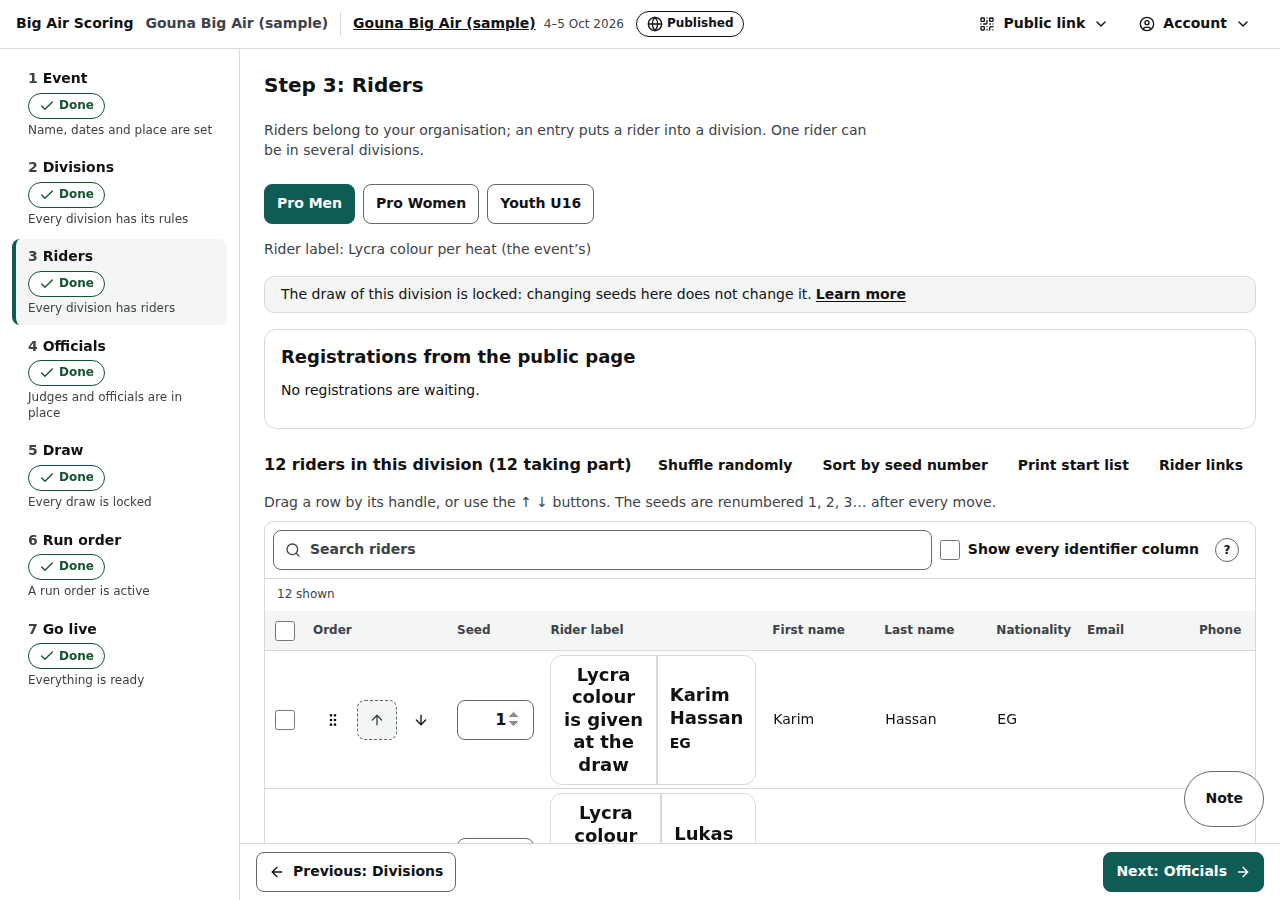
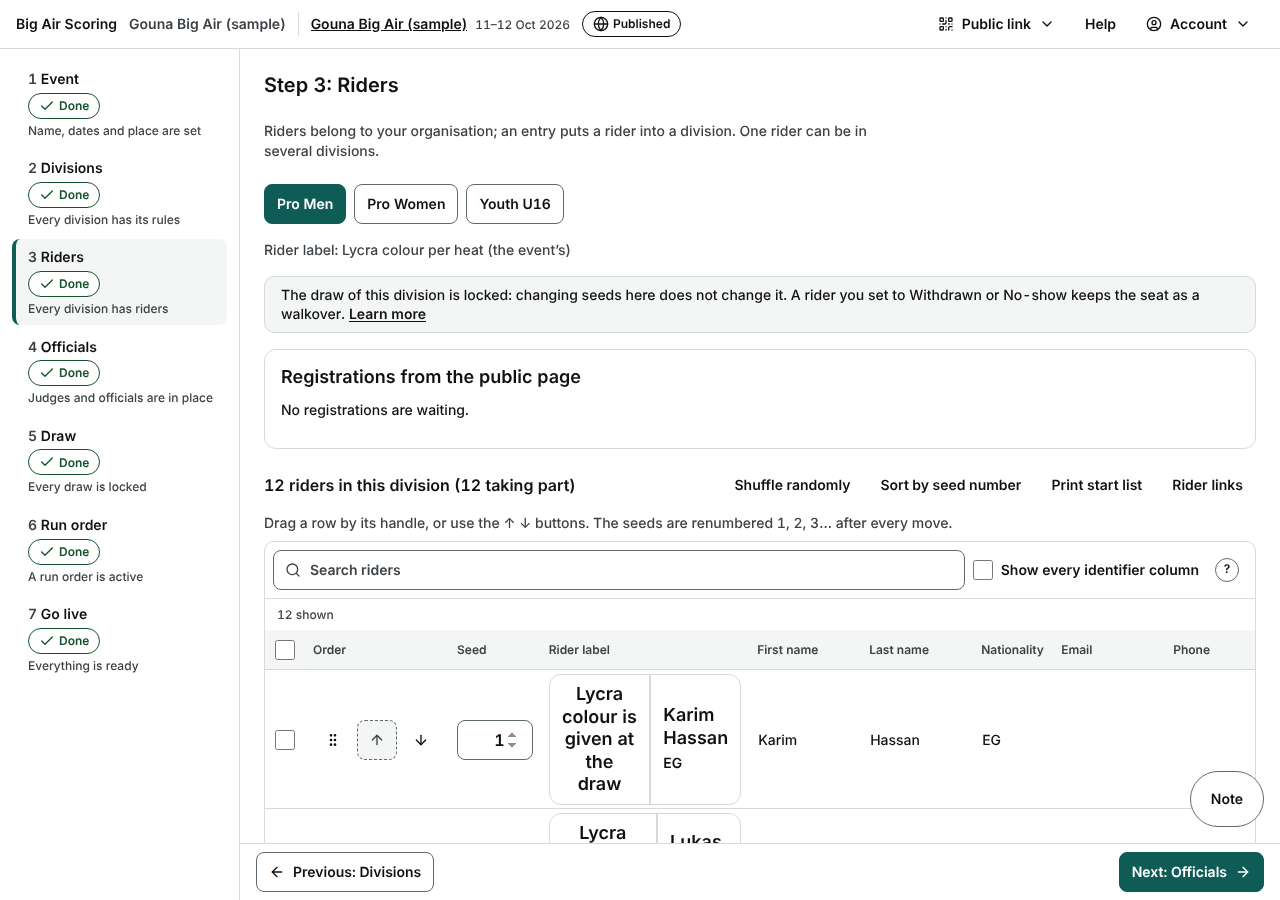
docs(manual): retaken pictures for the pages this PR changed, rider menu and Walkover pictures
Claude-Session: https://claude.ai/code/session_01Y7v8Lmk9V6uqmbBYhYnfgF

diff --git a/docs/manual/screens/console-laptop.md b/docs/manual/screens/console-laptop.md
@@ -69,6 +69,12 @@ Works on the laptop console (and for an organiser). The phone's Control tab does
 7. **Taking it back.** **Re-open** on a walkover heat puts it back to Not started with its riders (riders set to Did not start stay as they were; **Back in the heat** is on their menu). It is refused once a heat it fed has started: “A later heat that depends on this result has already started (‹heat›). Reset that heat first, then this one.”
 8. **Who may do it:** the head judge's seat and an organiser. Judges, spotters, the announcer, observers and other organisations are refused. Every press is in the audit log in words, for example “Head judge gave a walkover in R3 · H11: Adam Arrow goes through; Mariam Graff did not start (injured)”.
 
+![The rider menu on a rider's card](../img/console-rider-menu-1280.png)
+*console-rider-menu-1280.png — ··· on Yellow's card in a heat that has not started: Did not start (this heat only), Out of the event (injured or withdrew).*
+
+![The Walkover button after Did not start](../img/console-walkover-1280.png)
+*console-walkover-1280.png — Yellow did not start: one rider can ride, so the big button reads “Walkover — Red goes through”. Yellow's card says Did not start, never 0.0.*
+
 Two small guards on a heat nobody has ridden: the **Ties** box stays empty (two riders with no score are not “tied — choose the order”), and **Publish** asks once: “Nobody has ridden this heat. To send a rider through without riding, use Walkover. Publish anyway?”
 
 In a format that re-seeds by score, a walkover winner counts as a 1st place below every 1st place that has a score. In a fixed ladder (seats such as “1st H2”) nothing special happens.
